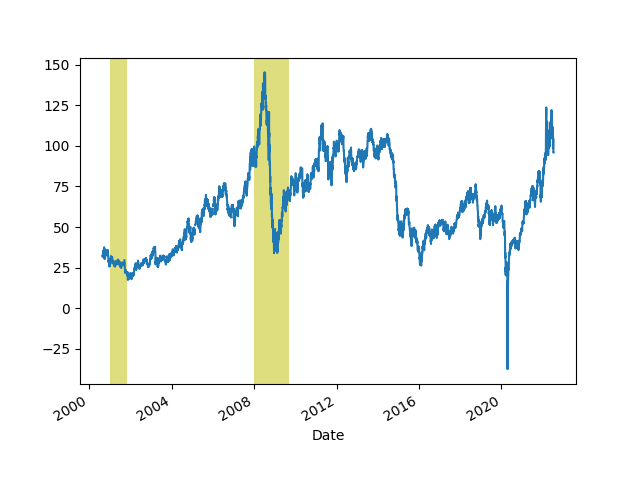
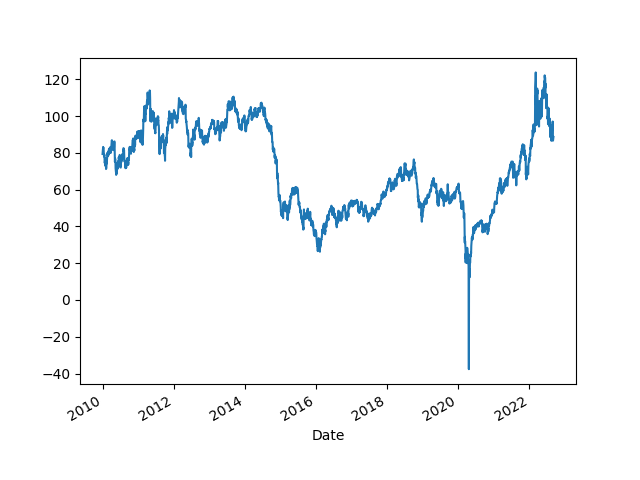
--

diff --git a/en/README.md b/en/README.md
@@ -2,130 +2,111 @@
 
 ---
 
-If this election was about selecting the most un-BJ person, that was
-actually Truss. Sunak's attitude was more like BJ, energetic speaking,
-a whatever it takes attitude..
+CNBC: "Apple is gaining on Facebook and Google in online ads after iOS
+privacy change, report shows"
 
 ---
 
-Likely wont be a need to die anywhere, new PM can be more popular than
-BJ for the mere fact she is not BJ.
+Parties sticking to ideologies matters because people don't vote in
+policies, they vote out people. Ergo when a new admim comes in, voters
+should automatically get a different way of governing through that
+different party. If voters are switching between globalist centrist
+cuck \#1 vs globalist centrist cuck \#2, that's not a change.
 
 ---
 
-Why did Tories under BJ went after working class votes? Some of that
-is due to Brexit.. Brexit could only be sold to the working class
-(they were duped obviously), the EU was an "elite thing" and once it
-passed, Tories were now 'stuck' with their new constituency, different
-than their usual.. With BJ as PM they could appeal to them due to his
-personality, but that all put the pro-business conservatives in a
-funk..
+Cowboys.. they've all become cowboys for America
 
-Hopefully the new PM will act more a con, and end this bizarre
-charade. If you will lose as a con, lose as a con. Die on that hill.
+Al Jazeera: "Israel’s shifting narratives on the killing of Shireen
+Abu Akleh.. Israel has now concluded that it is 'highly possible' one
+of its soldiers killed Shireen Abu Akleh"
+
 
 ---
 
-😂 😂 
-
-ABC AU: "Hasta la vista, Boris"
+Al Monitor: "Israel concedes soldier likely shot Al Jazeera journalist"
 
 ---
 
-Truss it is eh
+Al Jazeera: "China registers hottest August since records began"
 
 ---
 
-H2 Central: "China takes aim at leadership in hydrogen fuel vehicle
-industry..
-
-The hydrogen fuel vehicle sector in China is starting to accelerate as
-that country, already the largest H2 producer in the world, sees its
-companies and local governments come together with new technology
-advancements and supportive policies...
-
-China is expected to have 50,000 H2-powered cars and trucks on its
-roads by the close of 2025.
-
-This prediction was issued in March by the National Development and
-Reform Commission and the National Energy Administration in China"
+H2 Fuel News: "BMW begins manufacturing hydrogen fuel cell systems for iX5 SUV"
 
 ---
 
-Without OSS most of those hip Silicon Valley companies would not
-exist.. *Free* makes the world go around..
+H2 Fuel News: "Bosch pours $200M into hydrogen truck fuel cells.. The
+company plans to begin manufacturing the stacks by 2026 at a facility
+in South Carolina'
 
 ---
 
-"Gartner says that over 95% of the IT enterprises across the globe use
-Open Source Software for their mission-critical IT workloads, whether
-they are aware of it or not"
+Peter Voit: [See] [The quantum computing bubble](https://www.ft.com/content/6d2e34ab-f9fd-4041-8a96-91802bab7765) 
+at the Financial Times, where Nikita Gourianov argues that there’s a
+speculative bubble going on in this field, and:
+
+'Well, when exactly the bubble will pop is difficult to say, but at
+some point the claims will be found out and the funding will dry up. I
+just hope that when the music stops and the bubble pops, the public
+will still listen to us physicists'...
+
+I think Gourianov makes an important point for physicists to keep in
+mind. Having this sort of hype blow up in physicist’s faces is not
+going to help with the credibility problems physics already has with
+the public due to decades of hype about non-existent breakthroughs in
+fundamental physics
 
 ---
 
-Chilean constitution proposal rejected; thought leaders there probably
-thought the prop was trying to bite more than it could chew. Chilean
-existing consitution dates back to Pinochet era, I'm sure their left
-see it as fascist, the political consensus however wasn't ready for
-this change.
+The ABC hasta la vista comment was funny because BJ said earlier "I'll
+be back"
 
 ---
 
-"@samuelmoyn
-
-'In the end, the U.S. military is the world’s anti-fascist insurance
-policy.' [referring to [this](https://www.theatlantic.com/ideas/archive/2022/09/liberal-democrat-military-support-ukraine-trump/671328/) article]. 
-I know now that I lived in vain"
+Nuclear fission is also free energy in many ways, the ratio of energy
+obtained with energy applied is immensely large. It is possible to get
+something for nothing.
 
 ---
 
-Comment on oil price cap 
+That sounds like free energy..  No additional energy input is applied,
+when the catalyst splits water, is not reduced itself in the process
+so it could do the splitting forever creating energy.
 
-[[-]](https://youtu.be/ZNAhwYkW48o?t=802)
+H2 Fuel News: "[Researchers] at UCSC [found] a way to complete [water
+splitting for H2 generation] process at room temperature, without the
+requirement of the electric input. They have done so through the
+development of a special aluminum composite that causes a reaction
+with the water at room temperature. Aluminum is naturally a reactive
+material that will cause the oxygen to split away from water
+molecules, allowing the H2 to remain...
 
----
-
-A key neocon who sold the Iraq War, R. Kaplan, regrets it. One of the
-most visible 180 degree turns among the neo-cons.. I appreciate the
-honesty.
-
-[[-]](https://youtu.be/E28b0uO1I_s?t=346)
-
----
-
-Less money in pocket. Protest.
-
-"@pawelwargan
-
-70,000 people took to the streets of Prague in a mass protest.. They
-demanded neutrality in the war and action on energy prices"
-
-[[-]](https://twitter.com/pawelwargan/status/1566182916975099912)
+The researchers discovered that by applying an easily created
+composite of aluminum and gallium, the aluminum will react with water
+even at room temperature, resulting in the production of H2 without
+CO2 emissions"
 
 ---
 
-[Link](2018/12/the-road-to-oblivion.html#linc1)
+Crude is indeed down
+
+[[-]](2019/05/energstats.html)
 
 ---
 
-Rep condemns divisiveness and refers to Abraham Lincoln again :) This
-talking point just keeps on giving
+CNBC: "Gas prices are falling — Here's why it's happening.. Some
+states have also suspended their gas taxes, which artificially pushes
+prices lower. But the main reason for the fall is the decline in oil
+prices. Crude is the single largest factor influencing gas prices,
+accounting for more than 50% of what we pay at the pump"
 
 ---
 
-To understand voters you need to squint, imagine there is fog and you
-are looking through it... It's like the dog in the *Simpsons*. In one
-episode they showed how the dog perceives the world; people would
-talk, then they show his perception, the dog would hear "blah blah
-blah blah", once in a while he'd hear something he wld understand like
-"sit", then he sits. Otherwise it's just blah blah blah blah
-
----
-
-JB net approval rose to -10%. Improvement. Laws passed, "stuff is
-happening" so in the voter mind it could translate to "there is
-forward momentum". Gasoline prices are falling, they can surely
-understand "more money in my pocket".
+SCMP: "Sinopec sets green hydrogen goals to help China reach carbon
+neutrality by 2060.. China’s largest refiner aims to have an installed
+capacity to produce 120,000 tonnes of green hydrogen a year by the end
+of 2025"
 
 ---
 

diff --git a/en/tweets/2022/week35.md b/en/tweets/2022/week35.md
@@ -1,5 +1,132 @@
 # Week 35 
 
+If this election was about selecting the most un-BJ person, that was
+actually Truss. Sunak's attitude was more like BJ, energetic speaking,
+a whatever it takes attitude..
+
+---
+
+Likely wont be a need to die anywhere, new PM can be more popular than
+BJ for the mere fact she is not BJ.
+
+---
+
+Why did Tories under BJ went after working class votes? Some of that
+is due to Brexit.. Brexit could only be sold to the working class
+(they were duped obviously), the EU was an "elite thing" and once it
+passed, Tories were now 'stuck' with their new constituency, different
+than their usual.. With BJ as PM they could appeal to them due to his
+personality, but that all put the pro-business conservatives in a
+funk..
+
+Hopefully the new PM will act more a con, and end this bizarre
+charade. If you will lose as a con, lose as a con. Die on that hill.
+
+---
+
+😂 😂 
+
+ABC AU: "Hasta la vista, Boris"
+
+---
+
+Truss it is eh
+
+---
+
+H2 Central: "China takes aim at leadership in hydrogen fuel vehicle
+industry..
+
+The hydrogen fuel vehicle sector in China is starting to accelerate as
+that country, already the largest H2 producer in the world, sees its
+companies and local governments come together with new technology
+advancements and supportive policies...
+
+China is expected to have 50,000 H2-powered cars and trucks on its
+roads by the close of 2025.
+
+This prediction was issued in March by the National Development and
+Reform Commission and the National Energy Administration in China"
+
+---
+
+Without OSS most of those hip Silicon Valley companies would not
+exist.. *Free* makes the world go around..
+
+---
+
+"Gartner says that over 95% of the IT enterprises across the globe use
+Open Source Software for their mission-critical IT workloads, whether
+they are aware of it or not"
+
+---
+
+Chilean constitution proposal rejected; thought leaders there probably
+thought the prop was trying to bite more than it could chew. Chilean
+existing consitution dates back to Pinochet era, I'm sure their left
+see it as fascist, the political consensus however wasn't ready for
+this change.
+
+---
+
+"@samuelmoyn
+
+'In the end, the U.S. military is the world’s anti-fascist insurance
+policy.' [referring to [this](https://www.theatlantic.com/ideas/archive/2022/09/liberal-democrat-military-support-ukraine-trump/671328/) article]. 
+I know now that I lived in vain"
+
+---
+
+Comment on oil price cap 
+
+[[-]](https://youtu.be/ZNAhwYkW48o?t=802)
+
+---
+
+A key neocon who sold the Iraq War, R. Kaplan, regrets it. One of the
+most visible 180 degree turns among the neo-cons.. I appreciate the
+honesty.
+
+[[-]](https://youtu.be/E28b0uO1I_s?t=346)
+
+---
+
+Less money in pocket. Protest.
+
+"@pawelwargan
+
+70,000 people took to the streets of Prague in a mass protest.. They
+demanded neutrality in the war and action on energy prices"
+
+[[-]](https://twitter.com/pawelwargan/status/1566182916975099912)
+
+---
+
+[Link](2018/12/the-road-to-oblivion.html#linc1)
+
+---
+
+Rep condemns divisiveness and refers to Abraham Lincoln again :) This
+talking point just keeps on giving
+
+---
+
+To understand voters you need to squint, imagine there is fog and you
+are looking through it... It's like the dog in the *Simpsons*. In one
+episode they showed how the dog perceives the world; people would
+talk, then they show his perception, the dog would hear "blah blah
+blah blah", once in a while he'd hear something he wld understand like
+"sit", then he sits. Otherwise it's just blah blah blah blah
+
+---
+
+JB net approval rose to -10%. Improvement. Laws passed, "stuff is
+happening" so in the voter mind it could translate to "there is
+forward momentum". Gasoline prices are falling, they can surely
+understand "more money in my pocket".
+
+---
+
 FinancialPost "[06/2022] Zombie firms face slow death as era of easy
 credit ends.. Zombie firms in the Russell 3000 have plunged 36 per
 cent over the past year on average"

diff --git a/en/2019/05/energstats.md b/en/2019/05/energstats.md
@@ -6,18 +6,16 @@
 import util; df = util.get_yahoofin(2010,"CL=F")
 print (df.tail(5))
 df.plot()
-plt.axvspan('01-03-2001', '27-10-2001', color='y', alpha=0.5, lw=0)
-plt.axvspan('22-12-2007', '09-05-2009', color='y', alpha=0.5, lw=0)
 plt.savefig('oil.png')
 ```
 
 ```text
 Date
-2022-07-07    102.730003
-2022-07-08    104.790001
-2022-07-11    104.089996
-2022-07-12     95.839996
-2022-07-13     95.919998
+2022-08-30    91.639999
+2022-08-31    89.550003
+2022-09-01    86.610001
+2022-09-02    86.870003
+2022-09-06    88.639999
 Name: Close, dtype: float64
 ```
 
